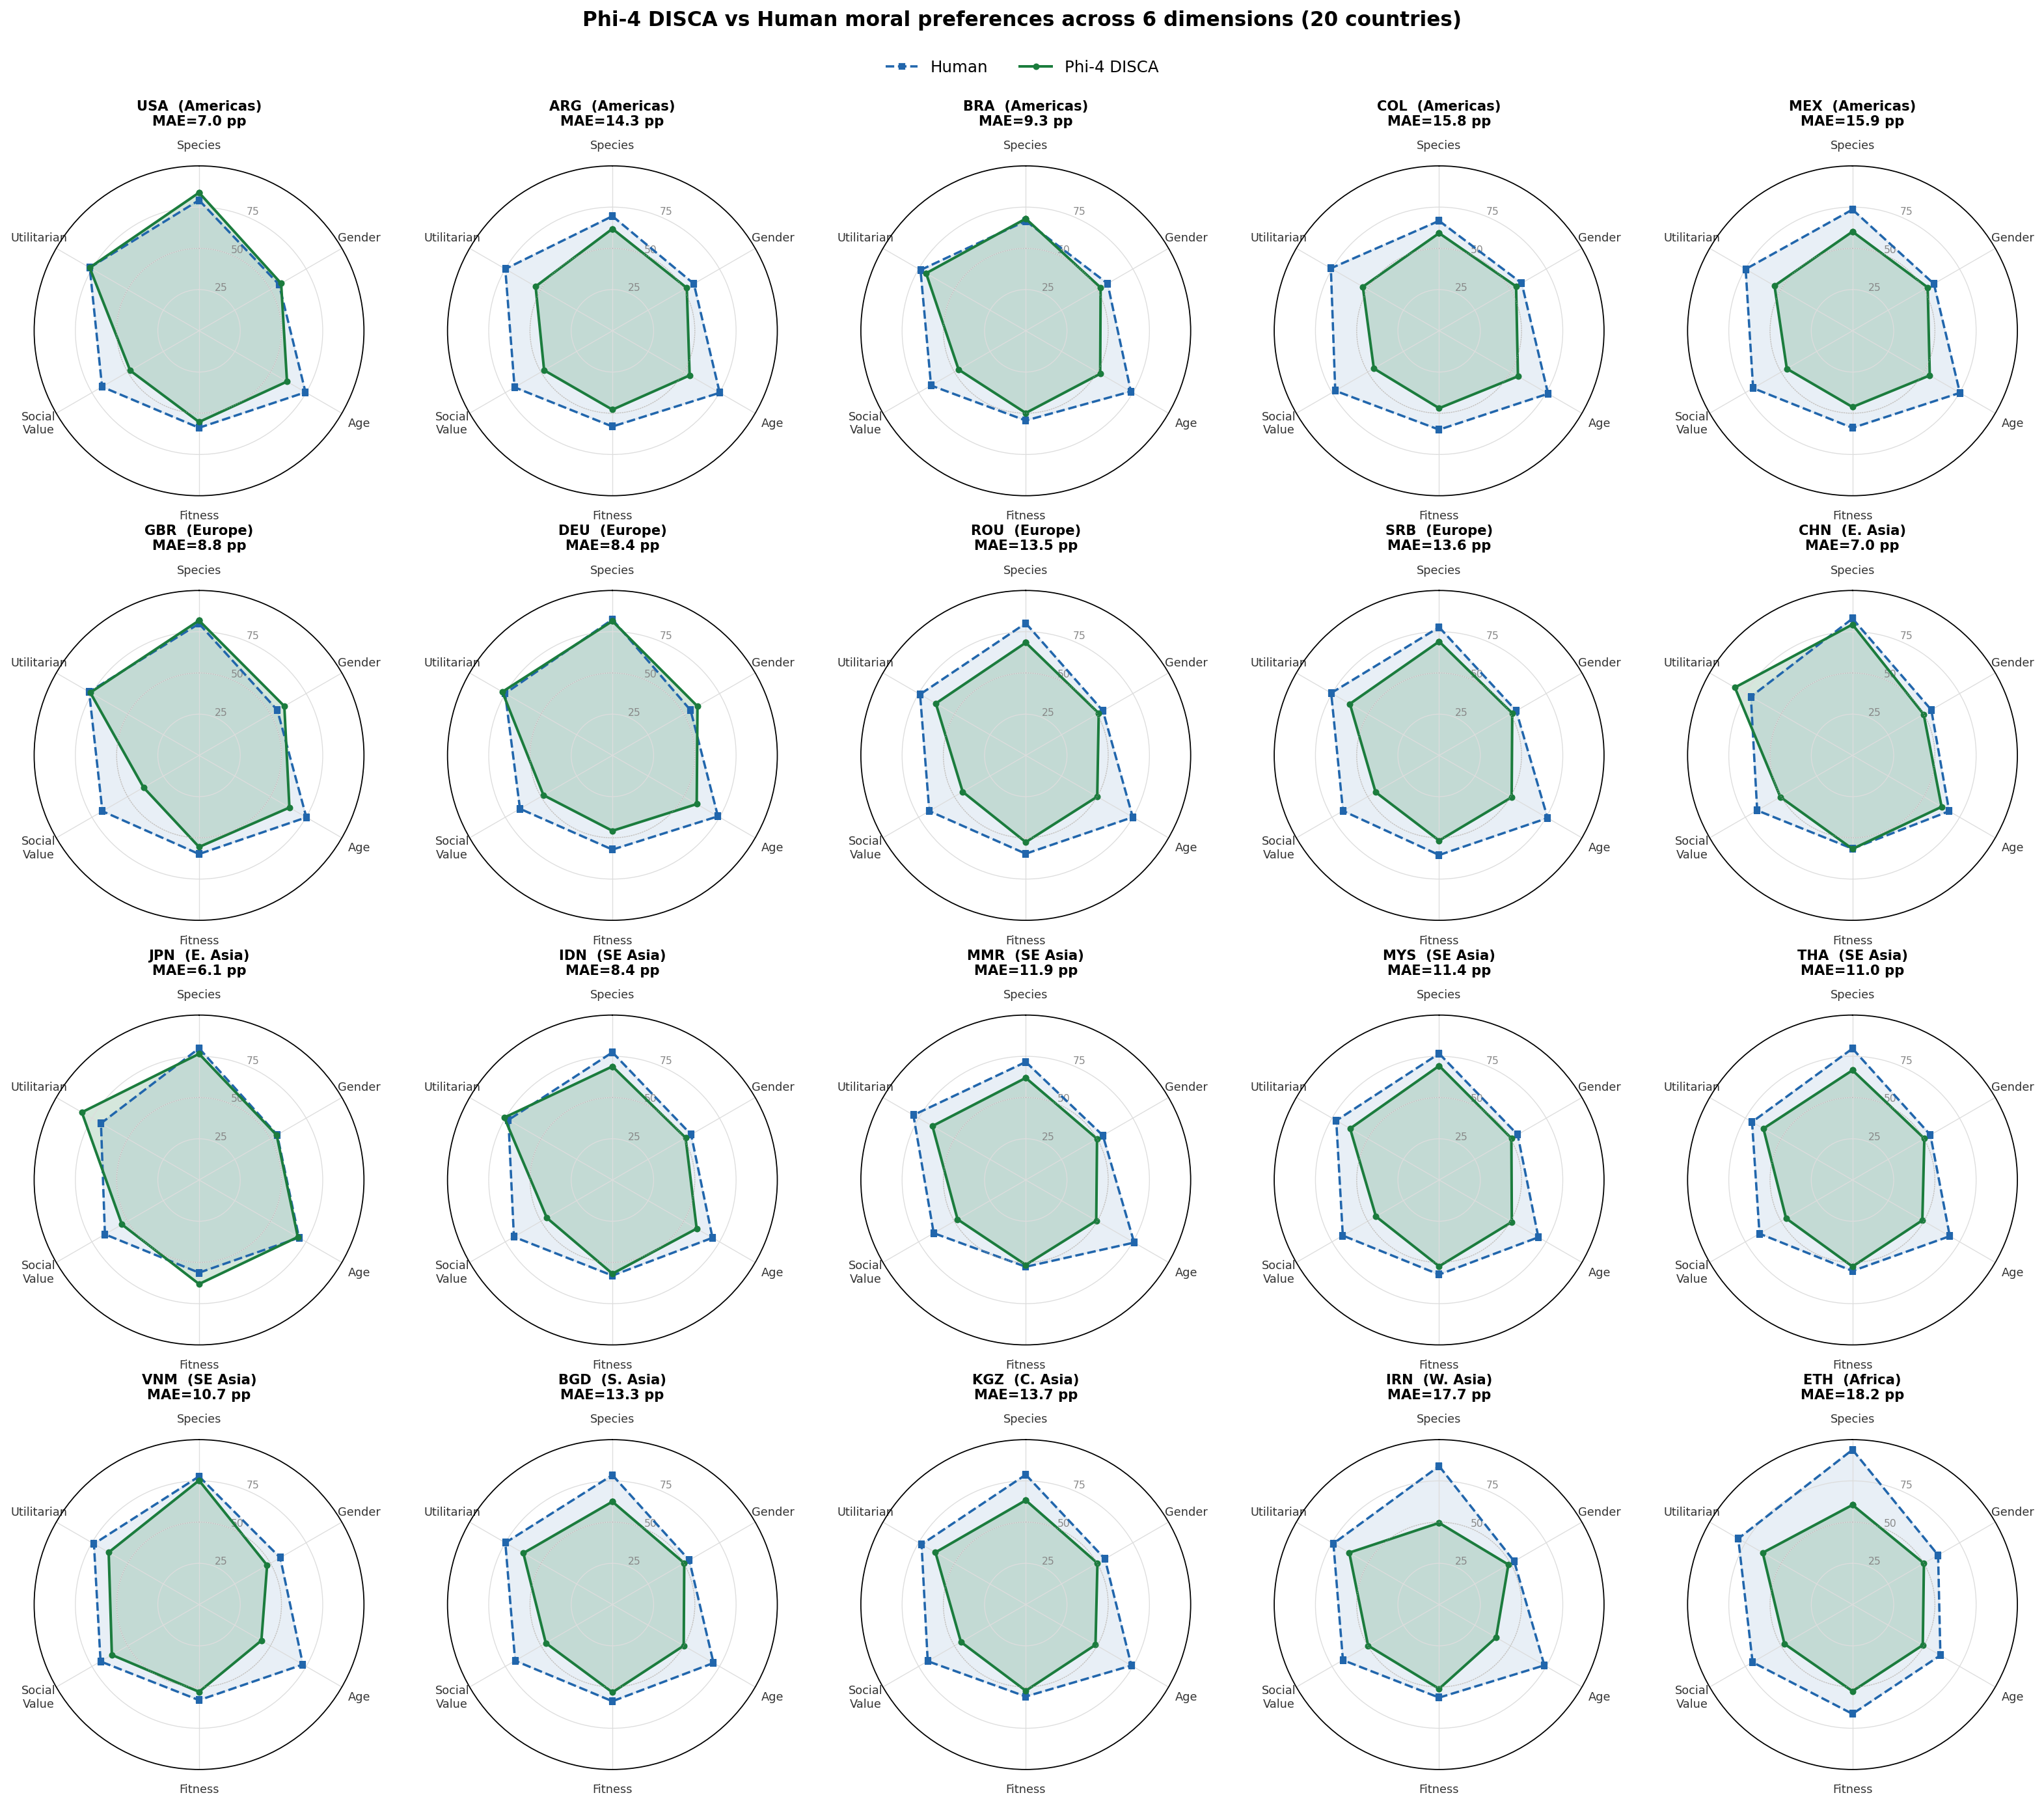
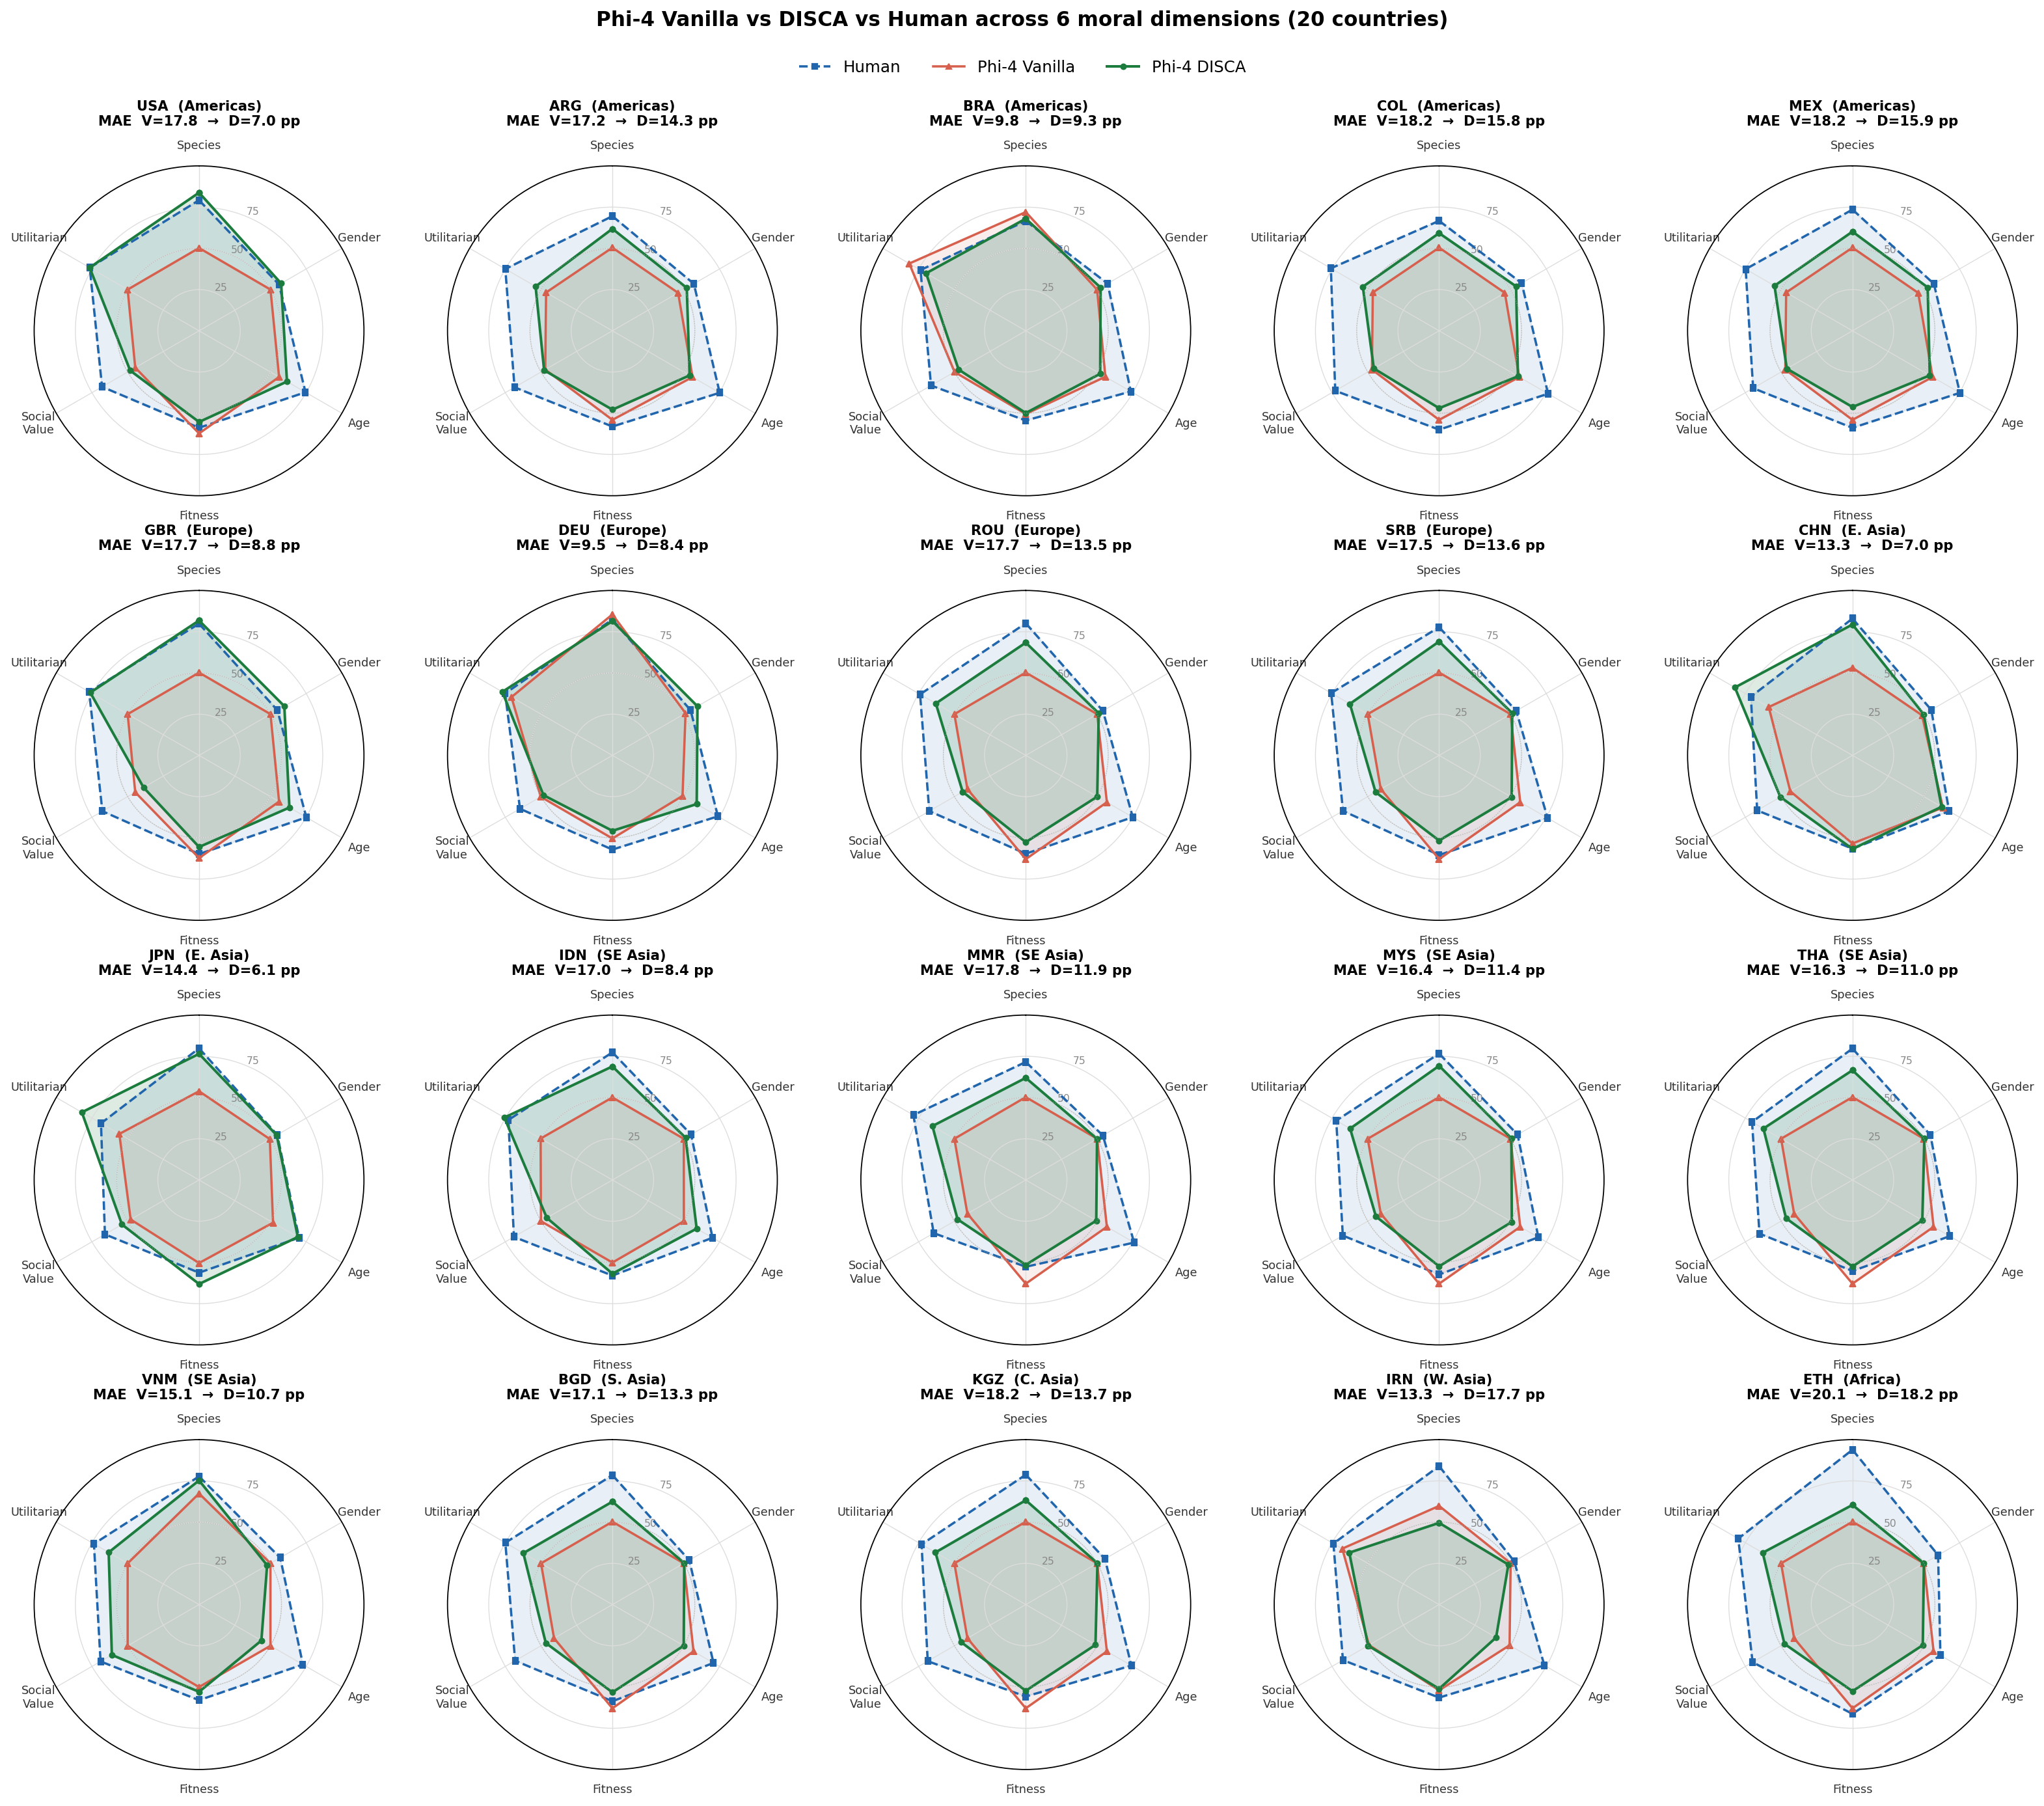
Refactor code structure for improved readability and maintainability

diff --git a/_local_run/run_radar_6dim.py b/_local_run/run_radar_6dim.py
@@ -1,12 +1,15 @@
 #!/usr/bin/env python3
-"""Quick 6-dimension radar grid: Phi-4 DISCA vs Human across 20 countries.
+"""6-dimension radar plots: Vanilla vs DISCA vs Human across the 20 countries.
+
+Generates three artefacts under _local_run/radar/:
+  1. radar_mean_all_models.{pdf,png}   - one panel per model, AMCE averaged
+                                          across the 20 countries (target plot)
+  2. radar_<model>_grid.{pdf,png}      - 4x5 country grid per model
+  3. radar_<model>_mean.{pdf,png}      - single mean radar per model
 
 Reads:
   _local_run/human_amce_long.csv      (country, dimension, human_amce)
-  _local_run/phi4_model_amce_long.csv (country, dimension, model_amce)
-
-Writes:
-  _local_run/radar_phi4_6dim.{pdf,png}
+  exp_paper/result/exp24_paper_20c/<model>/swa/<slug>/{vanilla,swa}_results_<ISO>.csv
 
 Run:  python _local_run/run_radar_6dim.py
 """
@@ -16,6 +19,7 @@ import csv
 from collections import defaultdict
 from math import pi
 from pathlib import Path
+from typing import Dict, List, Tuple
 
 import matplotlib
 matplotlib.use("Agg")
@@ -23,8 +27,14 @@ import matplotlib.pyplot as plt
 import numpy as np
 
 ROOT = Path(__file__).resolve().parent
+REPO = ROOT.parent
+PAPER_20C = REPO / "exp_paper" / "result" / "exp24_paper_20c"
+OUT = ROOT / "radar"
+OUT.mkdir(exist_ok=True)
 
-# Canonical dimension order shown on the radar (clockwise from top)
+# ---------------------------------------------------------------------------
+# Configuration
+# ---------------------------------------------------------------------------
 DIM_ORDER = [
     "Species_Humans",
     "Gender_Female",
@@ -36,13 +46,21 @@ DIM_ORDER = [
 DIM_LABELS = {
     "Species_Humans":      "Species",
     "Gender_Female":       "Gender",
-    "Age_Young":           "Age",
-    "Fitness_Fit":         "Fitness",
+    "Age_Young":            "Age",
+    "Fitness_Fit":          "Fitness",
     "SocialValue_High":    "Social\nValue",
     "Utilitarianism_More": "Utilitarian",
 }
+CAT_TO_DIM = {
+    "Species":        "Species_Humans",
+    "Gender":         "Gender_Female",
+    "Age":            "Age_Young",
+    "Fitness":        "Fitness_Fit",
+    "SocialValue":    "SocialValue_High",
+    "Utilitarianism": "Utilitarianism_More",
+}
 
-REGION_ORDER = [
+REGION_ORDER: List[Tuple[str, str]] = [
     ("USA", "Americas"), ("ARG", "Americas"), ("BRA", "Americas"),
     ("COL", "Americas"), ("MEX", "Americas"),
     ("GBR", "Europe"), ("DEU", "Europe"), ("ROU", "Europe"), ("SRB", "Europe"),
@@ -52,20 +70,81 @@ REGION_ORDER = [
     ("BGD", "S. Asia"), ("KGZ", "C. Asia"), ("IRN", "W. Asia"),
     ("ETH", "Africa"),
 ]
+ALL_ISO = [iso for iso, _ in REGION_ORDER]
 
-COL_DISCA = "#1B7C3D"
-COL_HUMAN = "#2166AC"
+# (folder_under_paper_20c, slug_subdir, display_label) - paper headline 7
+MODELS: List[Tuple[str, str, str]] = [
+    ("llama33_70b",          "llama-3.3-70b-instruct-bnb-4bit",       "Llama-3.3-70B"),
+    ("magistral_small_2509", "magistral-small-2509",                  "Magistral-Sml (24B)"),
+    ("phi_4",                "phi-4",                                 "Phi-4 (14B)"),
+    ("qwen3_vl_8b",          "qwen3-vl-8b-instruct-unsloth-bnb-4bit", "Qwen3-VL-8B"),
+    ("hf_qwen25_7b_bf16",    "qwen2.5-7b-instruct",                   "Qwen2.5-7B"),
+    ("phi35_mini",           "phi-3.5-mini-instruct",                 "Phi-3.5-mini"),
+    ("gemma4_e2b",           "gemma-4-e2b-it",                        "Gemma-4-E2B"),
+]
+
+COL_DISCA   = "#1B7C3D"
+COL_VANILLA = "#D6604D"
+COL_HUMAN   = "#2166AC"
 
 
-def load_amce(path: Path, value_col: str) -> dict[str, dict[str, float]]:
-    out: dict[str, dict[str, float]] = defaultdict(dict)
-    with path.open(encoding="utf-8") as f:
+# ---------------------------------------------------------------------------
+# Data loading
+# ---------------------------------------------------------------------------
+def load_human_amce() -> Dict[str, Dict[str, float]]:
+    out: Dict[str, Dict[str, float]] = defaultdict(dict)
+    with (ROOT / "human_amce_long.csv").open(encoding="utf-8") as f:
         for row in csv.DictReader(f):
-            out[row["country"]][row["dimension"]] = float(row[value_col])
+            out[row["country"]][row["dimension"]] = float(row["human_amce"])
     return out
 
 
-def radar_axes(ax, n_axes: int):
+def amce_from_results(path: Path) -> Dict[str, float]:
+    """Mean p_spare_preferred per phenomenon_category, scaled to [0, 100]."""
+    if not path.exists():
+        return {}
+    bucket: Dict[str, List[float]] = defaultdict(list)
+    with path.open(encoding="utf-8") as f:
+        for row in csv.DictReader(f):
+            cat = row.get("phenomenon_category", "")
+            if cat not in CAT_TO_DIM:
+                continue
+            try:
+                bucket[cat].append(float(row["p_spare_preferred"]))
+            except (KeyError, ValueError):
+                continue
+    return {
+        CAT_TO_DIM[cat]: 100.0 * float(np.mean(vals))
+        for cat, vals in bucket.items() if len(vals) >= 3
+    }
+
+
+def load_model(folder: str, slug: str) -> Tuple[Dict[str, Dict[str, float]],
+                                                 Dict[str, Dict[str, float]]]:
+    """Return (vanilla_amce, disca_amce), each indexed by ISO."""
+    base = PAPER_20C / folder / "swa" / slug
+    vanilla = {iso: amce_from_results(base / f"vanilla_results_{iso}.csv")
+               for iso in ALL_ISO}
+    disca   = {iso: amce_from_results(base / f"swa_results_{iso}.csv")
+               for iso in ALL_ISO}
+    return vanilla, disca
+
+
+def mean_amce(per_country: Dict[str, Dict[str, float]],
+              countries: List[str]) -> Dict[str, float]:
+    out: Dict[str, float] = {}
+    for dim in DIM_ORDER:
+        vals = [per_country[c].get(dim) for c in countries
+                if c in per_country and dim in per_country[c]]
+        if vals:
+            out[dim] = float(np.mean(vals))
+    return out
+
+
+# ---------------------------------------------------------------------------
+# Plot helpers
+# ---------------------------------------------------------------------------
+def radar_axes(ax, n_axes: int) -> List[float]:
     angles = [k / n_axes * 2 * pi for k in range(n_axes)]
     ax.set_theta_offset(pi / 2)
     ax.set_theta_direction(-1)
@@ -78,61 +157,142 @@ def radar_axes(ax, n_axes: int):
     return angles
 
 
-def plot_one(ax, country, region, human_d, disca_d):
+def draw_polygon(ax, angles: List[float], values: List[float],
+                 color: str, marker: str, ls: str, label: str,
+                 alpha_fill: float = 0.12, lw: float = 1.7) -> None:
+    closed_a = angles + [angles[0]]
+    closed_v = values + [values[0]]
+    ax.plot(closed_a, closed_v, marker=marker, ls=ls, color=color, lw=lw,
+            ms=3.6, label=label)
+    ax.fill(closed_a, closed_v, color=color, alpha=alpha_fill)
+
+
+def panel(ax, title: str, human: Dict[str, float],
+          vanilla: Dict[str, float], disca: Dict[str, float]) -> Tuple[float, float]:
     angles = radar_axes(ax, len(DIM_ORDER))
-    closed_angles = angles + [angles[0]]
+    h = [human.get(d, np.nan)   for d in DIM_ORDER]
+    v = [vanilla.get(d, np.nan) for d in DIM_ORDER]
+    m = [disca.get(d, np.nan)   for d in DIM_ORDER]
 
-    h = [human_d.get(d, np.nan) for d in DIM_ORDER]
-    m = [disca_d.get(d, np.nan) for d in DIM_ORDER]
-    h_closed = h + [h[0]]
-    m_closed = m + [m[0]]
-
-    ax.plot(closed_angles, h_closed, "s--", color=COL_HUMAN, lw=1.6,
-            ms=3.5, label="Human")
-    ax.fill(closed_angles, h_closed, color=COL_HUMAN, alpha=0.10)
-    ax.plot(closed_angles, m_closed, "o-", color=COL_DISCA, lw=1.8,
-            ms=3.5, label="Phi-4 DISCA")
-    ax.fill(closed_angles, m_closed, color=COL_DISCA, alpha=0.18)
+    draw_polygon(ax, angles, h, COL_HUMAN,   "s", "--", "Human",
+                 alpha_fill=0.10, lw=1.6)
+    draw_polygon(ax, angles, v, COL_VANILLA, "^", "-",  "Vanilla",
+                 alpha_fill=0.10, lw=1.6)
+    draw_polygon(ax, angles, m, COL_DISCA,   "o", "-",  "DISCA",
+                 alpha_fill=0.16, lw=1.9)
     ax.plot(np.linspace(0, 2 * pi, 80), [50] * 80, ":",
             color="#aaa", lw=0.6, alpha=0.7)
 
-    # mean abs error across dims (in pp) as a quick alignment indicator
-    err = np.nanmean(np.abs(np.array(h) - np.array(m)))
-    ax.set_title(f"{country}  ({region})\nMAE={err:.1f} pp",
-                 size=9.5, fontweight="bold", pad=10)
+    h_arr, v_arr, m_arr = np.array(h), np.array(v), np.array(m)
+    mae_v = float(np.nanmean(np.abs(h_arr - v_arr)))
+    mae_d = float(np.nanmean(np.abs(h_arr - m_arr)))
+    ax.set_title(f"{title}\nMAE  V={mae_v:.1f}  →  D={mae_d:.1f} pp",
+                 size=9.8, fontweight="bold", pad=10)
+    return mae_v, mae_d
 
 
-def main():
-    human = load_amce(ROOT / "human_amce_long.csv", "human_amce")
-    disca = load_amce(ROOT / "phi4_model_amce_long.csv", "model_amce")
+def add_legend(fig, axes, ncol: int = 3) -> None:
+    handles, labels = axes.flat[0].get_legend_handles_labels()
+    fig.legend(handles, labels, loc="upper center", ncol=ncol,
+               bbox_to_anchor=(0.5, 1.005), fontsize=11, frameon=False)
 
+
+# ---------------------------------------------------------------------------
+# Plot routines
+# ---------------------------------------------------------------------------
+def plot_country_grid(label: str, slug_safe: str,
+                      human: Dict[str, Dict[str, float]],
+                      vanilla: Dict[str, Dict[str, float]],
+                      disca: Dict[str, Dict[str, float]]) -> None:
     cols, rows = 5, 4
     fig, axes = plt.subplots(rows, cols, figsize=(4.0 * cols, 4.2 * rows),
                               subplot_kw={"polar": True})
-    axes = axes.flatten()
-
-    for ax, (iso, region) in zip(axes, REGION_ORDER):
-        if iso not in human or iso not in disca:
+    for ax, (iso, region) in zip(axes.flat, REGION_ORDER):
+        if not vanilla.get(iso) or not disca.get(iso) or iso not in human:
             ax.set_visible(False)
             continue
-        plot_one(ax, iso, region, human[iso], disca[iso])
-
-    handles, labels = axes[0].get_legend_handles_labels()
-    fig.legend(handles, labels, loc="upper center", ncol=2,
-               bbox_to_anchor=(0.5, 1.005), fontsize=11, frameon=False)
-    fig.suptitle(
-        "Phi-4 DISCA vs Human moral preferences across 6 dimensions (20 countries)",
-        fontsize=14, fontweight="bold", y=1.025,
-    )
+        panel(ax, f"{iso}  ({region})", human[iso], vanilla[iso], disca[iso])
+    add_legend(fig, axes)
+    fig.suptitle(f"{label}: Vanilla vs DISCA vs Human across 6 dimensions (20 countries)",
+                 fontsize=14, fontweight="bold", y=1.02)
     plt.tight_layout()
+    save(fig, OUT / f"radar_{slug_safe}_grid")
 
-    out_pdf = ROOT / "radar_phi4_6dim.pdf"
-    out_png = ROOT / "radar_phi4_6dim.png"
-    fig.savefig(out_pdf, bbox_inches="tight")
-    fig.savefig(out_png, bbox_inches="tight", dpi=160)
+
+def plot_mean_per_model(per_model_means: List[Tuple[str, Dict[str, float],
+                                                     Dict[str, float],
+                                                     Dict[str, float]]]) -> None:
+    """One panel per model, AMCE averaged across the 20 countries."""
+    n = len(per_model_means)
+    cols = 4
+    rows = (n + cols - 1) // cols
+    fig, axes = plt.subplots(rows, cols, figsize=(4.4 * cols, 4.6 * rows),
+                              subplot_kw={"polar": True})
+    axes = np.atleast_2d(axes)
+    for ax, (label, h_mean, v_mean, m_mean) in zip(axes.flat, per_model_means):
+        panel(ax, label, h_mean, v_mean, m_mean)
+    for ax in axes.flat[len(per_model_means):]:
+        ax.set_visible(False)
+    add_legend(fig, axes)
+    fig.suptitle("Mean across 20 countries: Vanilla vs DISCA vs Human (6 dims)",
+                 fontsize=14, fontweight="bold", y=1.01)
+    plt.tight_layout()
+    save(fig, OUT / "radar_mean_all_models")
+
+
+def plot_single_mean(label: str, slug_safe: str,
+                     h_mean: Dict[str, float],
+                     v_mean: Dict[str, float],
+                     m_mean: Dict[str, float]) -> None:
+    fig, ax = plt.subplots(1, 1, figsize=(6.5, 6.5),
+                           subplot_kw={"polar": True})
+    panel(ax, f"{label} - mean over 20 countries", h_mean, v_mean, m_mean)
+    ax.legend(loc="upper right", bbox_to_anchor=(1.30, 1.10),
+              fontsize=10, frameon=False)
+    plt.tight_layout()
+    save(fig, OUT / f"radar_{slug_safe}_mean")
+
+
+def save(fig, base: Path) -> None:
+    fig.savefig(str(base) + ".pdf", bbox_inches="tight")
+    fig.savefig(str(base) + ".png", bbox_inches="tight", dpi=160)
     plt.close(fig)
-    print(f"[OK] Saved -> {out_pdf}")
-    print(f"[OK] Saved -> {out_png}")
+    print(f"[OK] {base.name}.pdf / .png")
+
+
+# ---------------------------------------------------------------------------
+# Main
+# ---------------------------------------------------------------------------
+def main() -> None:
+    human = load_human_amce()
+    h_mean = mean_amce(human, ALL_ISO)
+
+    per_model_means: List[Tuple[str, Dict[str, float],
+                                Dict[str, float], Dict[str, float]]] = []
+
+    for folder, slug, label in MODELS:
+        print(f"\n=== {label} ===")
+        vanilla, disca = load_model(folder, slug)
+        n_v = sum(1 for c in ALL_ISO if vanilla.get(c))
+        n_d = sum(1 for c in ALL_ISO if disca.get(c))
+        print(f"  vanilla coverage: {n_v}/20    DISCA coverage: {n_d}/20")
+        if n_v == 0 and n_d == 0:
+            print(f"  [SKIP] no data for {label}")
+            continue
+
+        slug_safe = label.lower().replace(" ", "_").replace("(", "").replace(")", "")\
+                          .replace("/", "-").replace(".", "")
+        plot_country_grid(label, slug_safe, human, vanilla, disca)
+
+        v_mean = mean_amce(vanilla, [c for c in ALL_ISO if vanilla.get(c)])
+        m_mean = mean_amce(disca,   [c for c in ALL_ISO if disca.get(c)])
+        plot_single_mean(label, slug_safe, h_mean, v_mean, m_mean)
+        per_model_means.append((label, h_mean, v_mean, m_mean))
+
+    if per_model_means:
+        plot_mean_per_model(per_model_means)
+
+    print(f"\n[DONE] outputs in {OUT}")
 
 
 if __name__ == "__main__":

diff --git a/exp_paper/Paper_New/SWA_DPBR/paper_revised.tex b/exp_paper/Paper_New/SWA_DPBR/paper_revised.tex
@@ -2339,4 +2339,3 @@ We report 20 countries out of 100+ MultiTP countries; results depend on the prep
 \input{checklist}
 
 \end{document}
-  